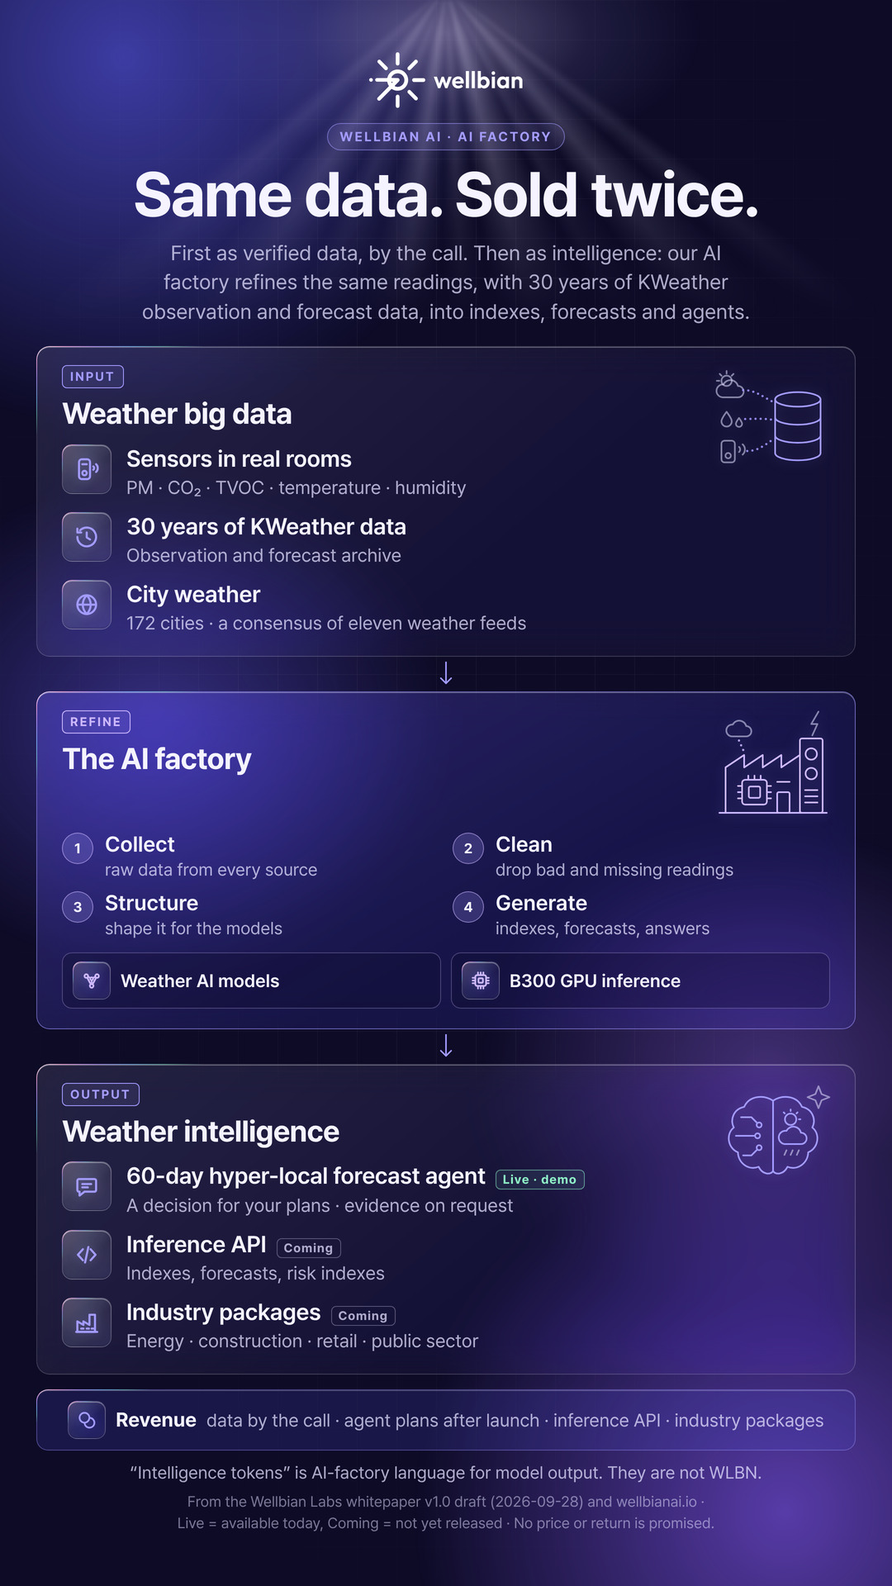
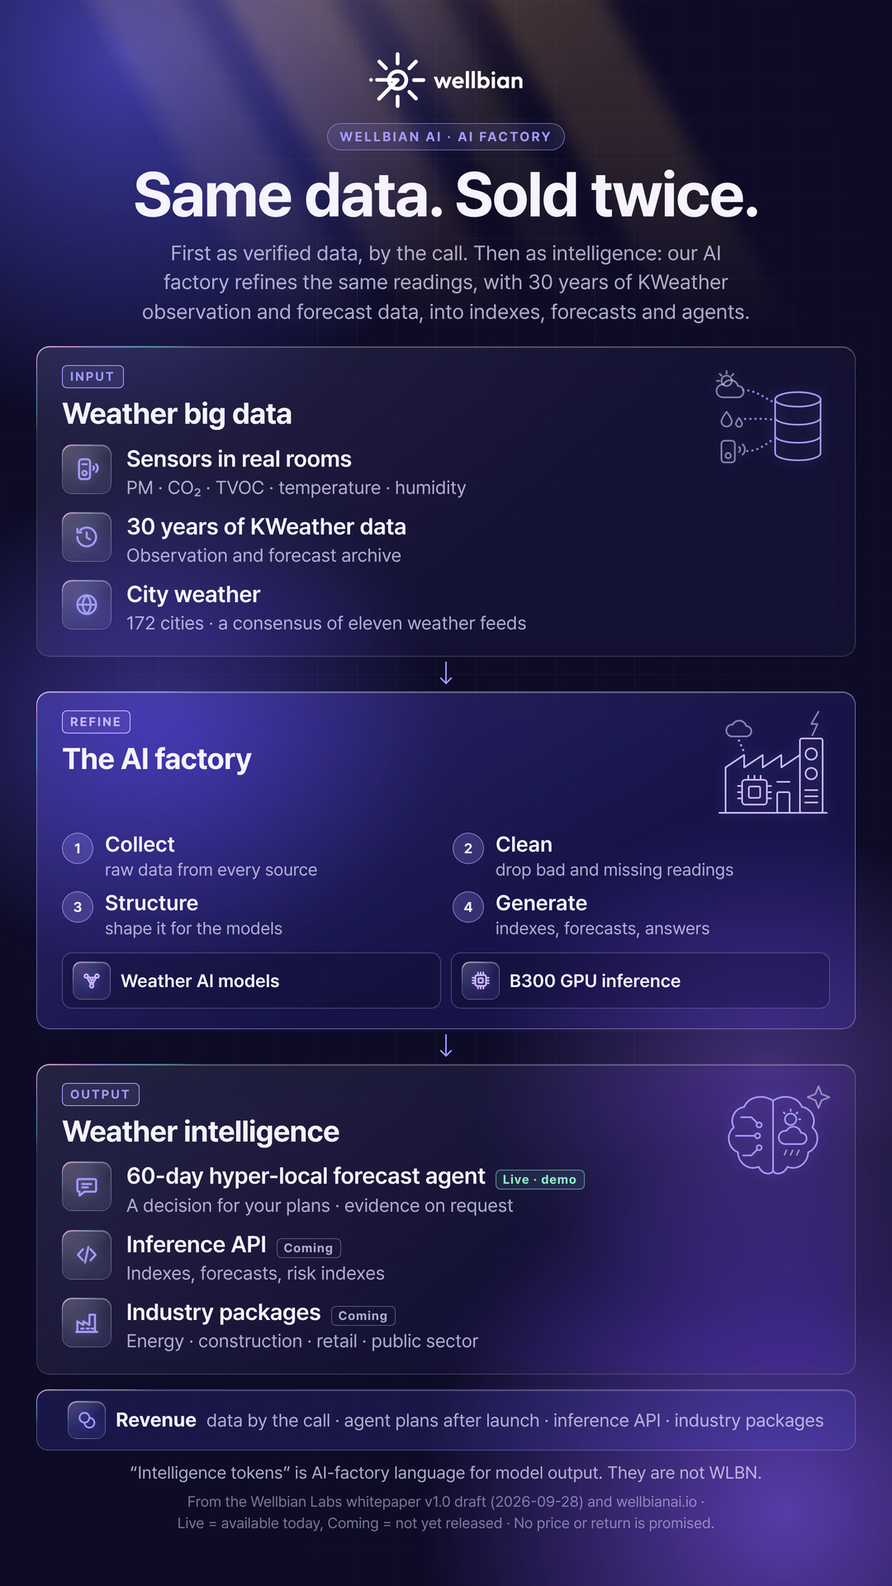
depin: swap part 3 radial rays for golden window light shafts
Claude-Session: https://claude.ai/code/session_014drgzQYBXTLjd1zzmsjRaS

Changed region(s): [[0.1222, 0.0, 0.7639, 0.125]]

diff --git a/depin/content/ai-factory-1021/ai-factory-en-9x16.html b/depin/content/ai-factory-1021/ai-factory-en-9x16.html
@@ -98,11 +98,12 @@ h1{margin-top:18px;font-size:70px;font-weight:700;letter-spacing:-.025em;line-he
 .ill svg{width:100%;height:100%;fill:none;stroke:currentColor;stroke-width:1.6;stroke-linecap:round;stroke-linejoin:round;filter:drop-shadow(0 0 8px rgba(163,155,255,.35))}
 .ill .l2{stroke:rgba(226,224,255,.55)}
 .ill .dot{stroke:currentColor;stroke-width:2.2;stroke-dasharray:0 5;opacity:.85}
-/* 햇살 — 최상단 가운데에서 메인 카피까지 내려오는 빛줄기(10/21 서우). 배경층(.bgfx) 안이라 글자 위로 올라오지 않는다. */
-.rays{position:absolute;left:50%;top:0;width:1700px;height:410px;transform:translateX(-50%);pointer-events:none;mix-blend-mode:screen;filter:blur(2.5px);
- background:conic-gradient(from 90deg at 50% -4%,transparent 0deg 36deg,rgba(232,224,255,.12) 39deg,transparent 43deg,rgba(232,224,255,.21) 50deg,transparent 56deg,rgba(232,224,255,.10) 62deg,transparent 65deg,rgba(232,224,255,.28) 75deg,transparent 82deg,rgba(232,224,255,.15) 87deg,transparent 91deg,rgba(232,224,255,.25) 98deg,transparent 105deg,rgba(232,224,255,.11) 112deg,transparent 116deg,rgba(232,224,255,.20) 124deg,transparent 131deg,rgba(232,224,255,.10) 138deg,transparent 142deg 360deg);
- -webkit-mask-image:linear-gradient(180deg,#000 0%,rgba(0,0,0,.78) 50%,rgba(0,0,0,.42) 72%,transparent 100%);mask-image:linear-gradient(180deg,#000 0%,rgba(0,0,0,.78) 50%,rgba(0,0,0,.42) 72%,transparent 100%)}
-.sunglow{position:absolute;left:50%;top:-120px;width:760px;height:340px;transform:translateX(-50%);border-radius:50%;pointer-events:none;background:radial-gradient(closest-side,rgba(214,200,255,.38),rgba(163,155,255,.12) 55%,rgba(163,155,255,0))}
+/* 햇살 — 창문으로 들어오는 금빛 빛줄기(10/22 서우 「방사형 말고 창문 햇살처럼 · 황금빛」). 위 왼쪽에서 비스듬히 내려와 메인 카피에 닿는
+   평행한 띠 넷(창살 사이 간격) · 많이 흐리게 · 아래로 갈수록 옅게. 배경층(.bgfx) 안이라 글자 위로 올라오지 않는다. */
+.shafts{position:absolute;top:-70px;left:50%;width:1150px;height:500px;transform:translateX(-66%) skewX(34deg);transform-origin:top center;pointer-events:none;mix-blend-mode:screen;filter:blur(10px);
+ background:linear-gradient(90deg,transparent 0%,rgba(255,200,112,.15) 4%,rgba(255,200,112,.15) 15%,transparent 19%,transparent 22%,rgba(255,190,96,.22) 25%,rgba(255,190,96,.22) 39%,transparent 43%,transparent 47%,rgba(255,206,124,.12) 50%,rgba(255,206,124,.12) 57%,transparent 60%,transparent 64%,rgba(255,194,104,.19) 67%,rgba(255,194,104,.19) 82%,transparent 86%,transparent 100%);
+ -webkit-mask-image:linear-gradient(180deg,rgba(0,0,0,.95) 0%,rgba(0,0,0,.75) 45%,rgba(0,0,0,.35) 72%,transparent 96%);mask-image:linear-gradient(180deg,rgba(0,0,0,.95) 0%,rgba(0,0,0,.75) 45%,rgba(0,0,0,.35) 72%,transparent 96%)}
+.sunglow{position:absolute;left:18%;top:-220px;width:1000px;height:440px;border-radius:50%;pointer-events:none;background:radial-gradient(closest-side,rgba(255,206,140,.16),rgba(255,190,120,.05) 60%,rgba(255,190,120,0))}
 .note{margin-top:16px;font-size:16px;color:var(--t2)}
 .note b{color:var(--t1);font-weight:600}
 .foot{margin-top:10px}
@@ -146,15 +147,15 @@ h1{margin-top:14px;font-size:76px;line-height:1.04;text-align:center;letter-spac
 .band b{font-size:24px}
 .band .ico-s{width:46px;height:46px;border-radius:11px}
 .band .ico-s svg{width:26px;height:26px}
-.rays{width:1150px;height:390px}
-.sunglow{width:620px;height:320px}
+.shafts{width:760px;height:500px;transform:translateX(-64%) skewX(30deg)}
+.sunglow{left:4%;width:760px;height:400px}
 .ill{top:16px;right:24px;width:150px;height:150px}
 .ft .hd{min-height:0;padding-right:170px}
 .ft.hub .hd{min-height:130px}
 .note{margin-top:14px;font-size:21px;text-align:center;max-width:960px;text-wrap:balance}
 .foot{margin-top:10px;max-width:960px;text-align:center;font-size:18px;line-height:1.45;text-wrap:balance}
 </style></head><body>
-<div class="bgfx"><div class="g1"></div><div class="g2"></div><div class="g3"></div><div class="g4"></div><div class="grid"></div><div class="sunglow"></div><div class="rays"></div></div>
+<div class="bgfx"><div class="g1"></div><div class="g2"></div><div class="g3"></div><div class="g4"></div><div class="grid"></div><div class="sunglow"></div><div class="shafts"></div></div>
 <div class="wrap">
 <div class="logo"><svg width="165" height="60" xmlns="http://www.w3.org/2000/svg" viewBox="0 0 416 151" fill="none" aria-label="wellbian"><g clip-path="url(#wellbian-logo-clip)"><path fill-rule="evenodd" clip-rule="evenodd" fill="#ffffff" d="M323.43 91.39C318.81 98.61 309.1 100.27 302.55 94.93L302.35 97.34L293.95 97.31V50.89L302.39 50.86L302.43 68.68C309.49 63.1 319.73 65.28 324.02 73.24C327.04 78.84 326.98 85.82 323.42 91.39H323.43ZM317.49 81.66C317.45 76.62 313.86 73.3 309.3 73.49C304.89 73.67 301.86 77.27 301.89 81.88C301.92 86.61 305.16 90.16 309.72 90.18C314.2 90.19 317.53 86.63 317.49 81.67V81.66ZM214.88 66.22H223.48L211.97 97.26L205.76 97.36L199.16 79.47L192.59 97.33L186.44 97.26L174.87 66.23L183.45 66.2L189.73 84.68L196.12 66.22L202.22 66.17L208.66 84.67L214.88 66.23V66.22ZM378.53 97.31L370.12 97.33L369.96 94.74C366.45 97.85 362.06 98.74 357.28 97.51C348.11 95.16 344.12 84.22 347.5 75.2C350.07 68.34 356.83 64.51 363.99 65.84C366.33 66.28 368.25 67.38 370.01 68.9L370.1 66.19H378.53V97.3V97.31ZM370.58 81.66C370.51 76.61 366.94 73.29 362.35 73.49C357.76 73.69 354.94 77.25 354.98 81.87C355.02 86.58 358.24 90.19 362.76 90.17C367.28 90.15 370.65 86.65 370.58 81.66ZM240.35 90.79C243.85 91.12 246.74 90.03 249.11 87.65L254.11 92.67C250.44 96.88 245.21 98.34 239.87 97.97C231.83 97.42 225.52 91.57 224.71 83.58C223.68 73.5 231.35 65.21 241.45 65.53C245.96 65.67 249.95 67.39 252.81 70.93C255.93 74.79 256.93 79.96 255.75 84.77H233.22C234.02 87.97 236.61 90.41 240.35 90.77V90.79ZM247.97 78.41C247.21 74.48 244.42 72.61 241 72.68C237.3 72.6 234.04 74.85 233.34 78.44L247.96 78.41H247.97ZM394.4 78.79L394.29 97.32H385.85V66.21L394.27 66.19L394.39 68.92C397.95 65.85 402.64 64.61 407.39 66.37C411.09 67.74 415.04 71.77 415.06 76.51L415.14 97.32H406.62L406.5 78.54C406.48 75.2 403.19 73.33 400.37 73.36C397.55 73.39 394.41 75.28 394.39 78.79H394.4ZM270.25 97.27L261.8 97.32V50.88L270.25 50.87V97.27ZM286.12 97.27L277.67 97.32V50.88L286.12 50.87V97.27ZM340.52 97.31H331.97V66.21L340.52 66.18V97.31ZM335.77 51.61C338.77 51.33 340.79 53.44 341.02 55.95C341.27 58.75 339.43 61.1 336.79 61.33C334.15 61.56 331.85 59.89 331.47 57.22C331.09 54.59 332.72 51.89 335.77 51.61ZM151.91 75.05C152.05 77.51 150.18 80.42 147.12 80.42H121.23C118.37 80.43 116.35 77.81 116.35 75.4C116.35 72.52 118.49 70.19 121.55 70.19L147.02 70.21C149.83 70.21 151.77 72.57 151.91 75.04M78.11 150.79H75.98C75.74 150.79 75.49 150.74 75.27 150.63C73.01 149.53 71.94 147.62 71.95 144.93L71.99 119.92C71.99 116.96 74.43 114.93 77.08 114.94C79.73 114.95 82.11 117.04 82.12 119.98L82.16 144.92C82.16 147.6 81.13 149.52 78.84 150.63C78.62 150.74 78.37 150.79 78.13 150.79H78.11ZM130.2 121.65C132.32 123.79 132.2 127.11 130.14 129.06C128.03 131.06 124.91 130.82 122.76 128.65L105.14 110.83C103.09 108.76 103.12 105.66 105.05 103.63C106.98 101.6 110.19 101.52 112.31 103.65L130.2 121.64V121.65ZM-9.76585e-06 75.58V73.86C-9.76585e-06 73.63 0.0399902 73.4 0.12999 73.19C1.12999 70.97 3.18999 69.5 5.60999 69.83C8.02999 70.16 10.03 72.42 9.91999 74.95C9.80999 77.48 7.83999 79.61 5.23999 79.76C2.94999 79.89 1.06999 78.44 0.11999 76.22C0.0299902 76.02 -0.0100098 75.79 -0.0100098 75.58H-9.76585e-06ZM52.97 90.7C51.07 87.56 49.87 84.48 49.15 81.06C48.99 80.31 48.35 79.76 47.58 79.76H21.31C18.42 79.76 16.29 77.56 16.19 74.97C16.08 72.18 18.28 69.8 21.31 69.8H47.88C48.62 69.79 49.25 69.27 49.43 68.55C53.4 52.66 69.57 43.24 85.29 47.94C94.48 50.69 101.45 58.07 104.12 66.39C107.39 76.58 105.06 86.87 98.34 94.5C89.03 105.08 73.73 107.18 61.91 99.72C61.27 99.31 60.43 99.39 59.9 99.93L30.57 129.52C28.52 131.59 25.62 131.7 23.52 129.94C21.62 128.35 20.8 124.85 22.93 122.7L52.74 92.68C53.26 92.15 53.34 91.34 52.96 90.71L52.97 90.7ZM80.79 78.93L69.87 89.9C69.07 90.71 69.33 92.1 70.39 92.52C76.53 94.96 83.35 93.88 88.39 89.84C94.03 85.32 96.63 77.87 94.7 70.68C92.54 62.67 85.48 57.21 77.46 57.05C70.29 56.91 63.71 61.01 60.61 67.52C60.12 68.56 60.92 69.76 62.07 69.76L77.66 69.82C79.76 69.82 81.46 71.82 81.95 73.25C82.63 75.22 82.33 77.36 80.78 78.93H80.79ZM61.66 79.79C60.53 79.77 59.73 80.9 60.14 81.96C60.56 83.04 61.96 83.33 62.77 82.51C63.75 81.51 63.06 79.82 61.66 79.79ZM78.15 0C78.4 0 78.65 0.05 78.87 0.16C81.11 1.27 82.14 3.2 82.14 5.87L82.1 30.81C82.1 33.75 79.72 35.84 77.06 35.85C74.4 35.86 71.98 33.83 71.97 30.87L71.93 5.86C71.93 3.16 73 1.25 75.37 0.15C75.58 0.05 75.83 0 76.06 0H78.14L78.15 0ZM112.39 46.97C110.21 49.17 107.12 49.03 105.11 47.13C103.36 45.48 102.84 42.1 104.86 40.07L122.89 21.84C124.89 19.82 127.79 19.77 129.78 21.35C131.84 22.97 132.6 26.53 130.51 28.64L112.38 46.97H112.39ZM49.43 40.36C51.26 42.21 50.67 45.34 49.2 46.95C47.55 48.76 44.23 49.43 42.3 47.5L23.59 28.67C21.68 26.75 22.19 23.58 23.76 21.9C25.45 20.09 28.75 19.48 30.74 21.5L49.42 40.37L49.43 40.36Z"></path></g><defs><clipPath id="wellbian-logo-clip"><rect width="415.14" height="150.79" fill="white"></rect></clipPath></defs></svg></div>
 <div class="kicker">Wellbian AI · AI factory</div>

diff --git a/depin/content/ai-factory-1021/ai-factory-en.html b/depin/content/ai-factory-1021/ai-factory-en.html
@@ -98,16 +98,17 @@ h1{margin-top:18px;font-size:70px;font-weight:700;letter-spacing:-.025em;line-he
 .ill svg{width:100%;height:100%;fill:none;stroke:currentColor;stroke-width:1.6;stroke-linecap:round;stroke-linejoin:round;filter:drop-shadow(0 0 8px rgba(163,155,255,.35))}
 .ill .l2{stroke:rgba(226,224,255,.55)}
 .ill .dot{stroke:currentColor;stroke-width:2.2;stroke-dasharray:0 5;opacity:.85}
-/* 햇살 — 최상단 가운데에서 메인 카피까지 내려오는 빛줄기(10/21 서우). 배경층(.bgfx) 안이라 글자 위로 올라오지 않는다. */
-.rays{position:absolute;left:50%;top:0;width:1700px;height:410px;transform:translateX(-50%);pointer-events:none;mix-blend-mode:screen;filter:blur(2.5px);
- background:conic-gradient(from 90deg at 50% -4%,transparent 0deg 36deg,rgba(232,224,255,.12) 39deg,transparent 43deg,rgba(232,224,255,.21) 50deg,transparent 56deg,rgba(232,224,255,.10) 62deg,transparent 65deg,rgba(232,224,255,.28) 75deg,transparent 82deg,rgba(232,224,255,.15) 87deg,transparent 91deg,rgba(232,224,255,.25) 98deg,transparent 105deg,rgba(232,224,255,.11) 112deg,transparent 116deg,rgba(232,224,255,.20) 124deg,transparent 131deg,rgba(232,224,255,.10) 138deg,transparent 142deg 360deg);
- -webkit-mask-image:linear-gradient(180deg,#000 0%,rgba(0,0,0,.78) 50%,rgba(0,0,0,.42) 72%,transparent 100%);mask-image:linear-gradient(180deg,#000 0%,rgba(0,0,0,.78) 50%,rgba(0,0,0,.42) 72%,transparent 100%)}
-.sunglow{position:absolute;left:50%;top:-120px;width:760px;height:340px;transform:translateX(-50%);border-radius:50%;pointer-events:none;background:radial-gradient(closest-side,rgba(214,200,255,.38),rgba(163,155,255,.12) 55%,rgba(163,155,255,0))}
+/* 햇살 — 창문으로 들어오는 금빛 빛줄기(10/22 서우 「방사형 말고 창문 햇살처럼 · 황금빛」). 위 왼쪽에서 비스듬히 내려와 메인 카피에 닿는
+   평행한 띠 넷(창살 사이 간격) · 많이 흐리게 · 아래로 갈수록 옅게. 배경층(.bgfx) 안이라 글자 위로 올라오지 않는다. */
+.shafts{position:absolute;top:-70px;left:50%;width:1150px;height:500px;transform:translateX(-66%) skewX(34deg);transform-origin:top center;pointer-events:none;mix-blend-mode:screen;filter:blur(10px);
+ background:linear-gradient(90deg,transparent 0%,rgba(255,200,112,.15) 4%,rgba(255,200,112,.15) 15%,transparent 19%,transparent 22%,rgba(255,190,96,.22) 25%,rgba(255,190,96,.22) 39%,transparent 43%,transparent 47%,rgba(255,206,124,.12) 50%,rgba(255,206,124,.12) 57%,transparent 60%,transparent 64%,rgba(255,194,104,.19) 67%,rgba(255,194,104,.19) 82%,transparent 86%,transparent 100%);
+ -webkit-mask-image:linear-gradient(180deg,rgba(0,0,0,.95) 0%,rgba(0,0,0,.75) 45%,rgba(0,0,0,.35) 72%,transparent 96%);mask-image:linear-gradient(180deg,rgba(0,0,0,.95) 0%,rgba(0,0,0,.75) 45%,rgba(0,0,0,.35) 72%,transparent 96%)}
+.sunglow{position:absolute;left:18%;top:-220px;width:1000px;height:440px;border-radius:50%;pointer-events:none;background:radial-gradient(closest-side,rgba(255,206,140,.16),rgba(255,190,120,.05) 60%,rgba(255,190,120,0))}
 .note{margin-top:16px;font-size:16px;color:var(--t2)}
 .note b{color:var(--t1);font-weight:600}
 .foot{margin-top:10px}
 </style></head><body>
-<div class="bgfx"><div class="g1"></div><div class="g2"></div><div class="g3"></div><div class="g4"></div><div class="grid"></div><div class="sunglow"></div><div class="rays"></div></div>
+<div class="bgfx"><div class="g1"></div><div class="g2"></div><div class="g3"></div><div class="g4"></div><div class="grid"></div><div class="sunglow"></div><div class="shafts"></div></div>
 <div class="wrap">
 <div class="logo"><svg width="165" height="60" xmlns="http://www.w3.org/2000/svg" viewBox="0 0 416 151" fill="none" aria-label="wellbian"><g clip-path="url(#wellbian-logo-clip)"><path fill-rule="evenodd" clip-rule="evenodd" fill="#ffffff" d="M323.43 91.39C318.81 98.61 309.1 100.27 302.55 94.93L302.35 97.34L293.95 97.31V50.89L302.39 50.86L302.43 68.68C309.49 63.1 319.73 65.28 324.02 73.24C327.04 78.84 326.98 85.82 323.42 91.39H323.43ZM317.49 81.66C317.45 76.62 313.86 73.3 309.3 73.49C304.89 73.67 301.86 77.27 301.89 81.88C301.92 86.61 305.16 90.16 309.72 90.18C314.2 90.19 317.53 86.63 317.49 81.67V81.66ZM214.88 66.22H223.48L211.97 97.26L205.76 97.36L199.16 79.47L192.59 97.33L186.44 97.26L174.87 66.23L183.45 66.2L189.73 84.68L196.12 66.22L202.22 66.17L208.66 84.67L214.88 66.23V66.22ZM378.53 97.31L370.12 97.33L369.96 94.74C366.45 97.85 362.06 98.74 357.28 97.51C348.11 95.16 344.12 84.22 347.5 75.2C350.07 68.34 356.83 64.51 363.99 65.84C366.33 66.28 368.25 67.38 370.01 68.9L370.1 66.19H378.53V97.3V97.31ZM370.58 81.66C370.51 76.61 366.94 73.29 362.35 73.49C357.76 73.69 354.94 77.25 354.98 81.87C355.02 86.58 358.24 90.19 362.76 90.17C367.28 90.15 370.65 86.65 370.58 81.66ZM240.35 90.79C243.85 91.12 246.74 90.03 249.11 87.65L254.11 92.67C250.44 96.88 245.21 98.34 239.87 97.97C231.83 97.42 225.52 91.57 224.71 83.58C223.68 73.5 231.35 65.21 241.45 65.53C245.96 65.67 249.95 67.39 252.81 70.93C255.93 74.79 256.93 79.96 255.75 84.77H233.22C234.02 87.97 236.61 90.41 240.35 90.77V90.79ZM247.97 78.41C247.21 74.48 244.42 72.61 241 72.68C237.3 72.6 234.04 74.85 233.34 78.44L247.96 78.41H247.97ZM394.4 78.79L394.29 97.32H385.85V66.21L394.27 66.19L394.39 68.92C397.95 65.85 402.64 64.61 407.39 66.37C411.09 67.74 415.04 71.77 415.06 76.51L415.14 97.32H406.62L406.5 78.54C406.48 75.2 403.19 73.33 400.37 73.36C397.55 73.39 394.41 75.28 394.39 78.79H394.4ZM270.25 97.27L261.8 97.32V50.88L270.25 50.87V97.27ZM286.12 97.27L277.67 97.32V50.88L286.12 50.87V97.27ZM340.52 97.31H331.97V66.21L340.52 66.18V97.31ZM335.77 51.61C338.77 51.33 340.79 53.44 341.02 55.95C341.27 58.75 339.43 61.1 336.79 61.33C334.15 61.56 331.85 59.89 331.47 57.22C331.09 54.59 332.72 51.89 335.77 51.61ZM151.91 75.05C152.05 77.51 150.18 80.42 147.12 80.42H121.23C118.37 80.43 116.35 77.81 116.35 75.4C116.35 72.52 118.49 70.19 121.55 70.19L147.02 70.21C149.83 70.21 151.77 72.57 151.91 75.04M78.11 150.79H75.98C75.74 150.79 75.49 150.74 75.27 150.63C73.01 149.53 71.94 147.62 71.95 144.93L71.99 119.92C71.99 116.96 74.43 114.93 77.08 114.94C79.73 114.95 82.11 117.04 82.12 119.98L82.16 144.92C82.16 147.6 81.13 149.52 78.84 150.63C78.62 150.74 78.37 150.79 78.13 150.79H78.11ZM130.2 121.65C132.32 123.79 132.2 127.11 130.14 129.06C128.03 131.06 124.91 130.82 122.76 128.65L105.14 110.83C103.09 108.76 103.12 105.66 105.05 103.63C106.98 101.6 110.19 101.52 112.31 103.65L130.2 121.64V121.65ZM-9.76585e-06 75.58V73.86C-9.76585e-06 73.63 0.0399902 73.4 0.12999 73.19C1.12999 70.97 3.18999 69.5 5.60999 69.83C8.02999 70.16 10.03 72.42 9.91999 74.95C9.80999 77.48 7.83999 79.61 5.23999 79.76C2.94999 79.89 1.06999 78.44 0.11999 76.22C0.0299902 76.02 -0.0100098 75.79 -0.0100098 75.58H-9.76585e-06ZM52.97 90.7C51.07 87.56 49.87 84.48 49.15 81.06C48.99 80.31 48.35 79.76 47.58 79.76H21.31C18.42 79.76 16.29 77.56 16.19 74.97C16.08 72.18 18.28 69.8 21.31 69.8H47.88C48.62 69.79 49.25 69.27 49.43 68.55C53.4 52.66 69.57 43.24 85.29 47.94C94.48 50.69 101.45 58.07 104.12 66.39C107.39 76.58 105.06 86.87 98.34 94.5C89.03 105.08 73.73 107.18 61.91 99.72C61.27 99.31 60.43 99.39 59.9 99.93L30.57 129.52C28.52 131.59 25.62 131.7 23.52 129.94C21.62 128.35 20.8 124.85 22.93 122.7L52.74 92.68C53.26 92.15 53.34 91.34 52.96 90.71L52.97 90.7ZM80.79 78.93L69.87 89.9C69.07 90.71 69.33 92.1 70.39 92.52C76.53 94.96 83.35 93.88 88.39 89.84C94.03 85.32 96.63 77.87 94.7 70.68C92.54 62.67 85.48 57.21 77.46 57.05C70.29 56.91 63.71 61.01 60.61 67.52C60.12 68.56 60.92 69.76 62.07 69.76L77.66 69.82C79.76 69.82 81.46 71.82 81.95 73.25C82.63 75.22 82.33 77.36 80.78 78.93H80.79ZM61.66 79.79C60.53 79.77 59.73 80.9 60.14 81.96C60.56 83.04 61.96 83.33 62.77 82.51C63.75 81.51 63.06 79.82 61.66 79.79ZM78.15 0C78.4 0 78.65 0.05 78.87 0.16C81.11 1.27 82.14 3.2 82.14 5.87L82.1 30.81C82.1 33.75 79.72 35.84 77.06 35.85C74.4 35.86 71.98 33.83 71.97 30.87L71.93 5.86C71.93 3.16 73 1.25 75.37 0.15C75.58 0.05 75.83 0 76.06 0H78.14L78.15 0ZM112.39 46.97C110.21 49.17 107.12 49.03 105.11 47.13C103.36 45.48 102.84 42.1 104.86 40.07L122.89 21.84C124.89 19.82 127.79 19.77 129.78 21.35C131.84 22.97 132.6 26.53 130.51 28.64L112.38 46.97H112.39ZM49.43 40.36C51.26 42.21 50.67 45.34 49.2 46.95C47.55 48.76 44.23 49.43 42.3 47.5L23.59 28.67C21.68 26.75 22.19 23.58 23.76 21.9C25.45 20.09 28.75 19.48 30.74 21.5L49.42 40.37L49.43 40.36Z"></path></g><defs><clipPath id="wellbian-logo-clip"><rect width="415.14" height="150.79" fill="white"></rect></clipPath></defs></svg></div>
 <div class="kicker">Wellbian AI · AI factory</div>

diff --git a/depin/content/ai-factory-1021/build.py b/depin/content/ai-factory-1021/build.py
@@ -82,11 +82,12 @@ XCSS = """
 .ill svg{width:100%;height:100%;fill:none;stroke:currentColor;stroke-width:1.6;stroke-linecap:round;stroke-linejoin:round;filter:drop-shadow(0 0 8px rgba(163,155,255,.35))}
 .ill .l2{stroke:rgba(226,224,255,.55)}
 .ill .dot{stroke:currentColor;stroke-width:2.2;stroke-dasharray:0 5;opacity:.85}
-/* 햇살 — 최상단 가운데에서 메인 카피까지 내려오는 빛줄기(10/21 서우). 배경층(.bgfx) 안이라 글자 위로 올라오지 않는다. */
-.rays{position:absolute;left:50%;top:0;width:1700px;height:410px;transform:translateX(-50%);pointer-events:none;mix-blend-mode:screen;filter:blur(2.5px);
- background:conic-gradient(from 90deg at 50% -4%,transparent 0deg 36deg,rgba(232,224,255,.12) 39deg,transparent 43deg,rgba(232,224,255,.21) 50deg,transparent 56deg,rgba(232,224,255,.10) 62deg,transparent 65deg,rgba(232,224,255,.28) 75deg,transparent 82deg,rgba(232,224,255,.15) 87deg,transparent 91deg,rgba(232,224,255,.25) 98deg,transparent 105deg,rgba(232,224,255,.11) 112deg,transparent 116deg,rgba(232,224,255,.20) 124deg,transparent 131deg,rgba(232,224,255,.10) 138deg,transparent 142deg 360deg);
- -webkit-mask-image:linear-gradient(180deg,#000 0%,rgba(0,0,0,.78) 50%,rgba(0,0,0,.42) 72%,transparent 100%);mask-image:linear-gradient(180deg,#000 0%,rgba(0,0,0,.78) 50%,rgba(0,0,0,.42) 72%,transparent 100%)}
-.sunglow{position:absolute;left:50%;top:-120px;width:760px;height:340px;transform:translateX(-50%);border-radius:50%;pointer-events:none;background:radial-gradient(closest-side,rgba(214,200,255,.38),rgba(163,155,255,.12) 55%,rgba(163,155,255,0))}
+/* 햇살 — 창문으로 들어오는 금빛 빛줄기(10/22 서우 「방사형 말고 창문 햇살처럼 · 황금빛」). 위 왼쪽에서 비스듬히 내려와 메인 카피에 닿는
+   평행한 띠 넷(창살 사이 간격) · 많이 흐리게 · 아래로 갈수록 옅게. 배경층(.bgfx) 안이라 글자 위로 올라오지 않는다. */
+.shafts{position:absolute;top:-70px;left:50%;width:1150px;height:500px;transform:translateX(-66%) skewX(34deg);transform-origin:top center;pointer-events:none;mix-blend-mode:screen;filter:blur(10px);
+ background:linear-gradient(90deg,transparent 0%,rgba(255,200,112,.15) 4%,rgba(255,200,112,.15) 15%,transparent 19%,transparent 22%,rgba(255,190,96,.22) 25%,rgba(255,190,96,.22) 39%,transparent 43%,transparent 47%,rgba(255,206,124,.12) 50%,rgba(255,206,124,.12) 57%,transparent 60%,transparent 64%,rgba(255,194,104,.19) 67%,rgba(255,194,104,.19) 82%,transparent 86%,transparent 100%);
+ -webkit-mask-image:linear-gradient(180deg,rgba(0,0,0,.95) 0%,rgba(0,0,0,.75) 45%,rgba(0,0,0,.35) 72%,transparent 96%);mask-image:linear-gradient(180deg,rgba(0,0,0,.95) 0%,rgba(0,0,0,.75) 45%,rgba(0,0,0,.35) 72%,transparent 96%)}
+.sunglow{position:absolute;left:18%;top:-220px;width:1000px;height:440px;border-radius:50%;pointer-events:none;background:radial-gradient(closest-side,rgba(255,206,140,.16),rgba(255,190,120,.05) 60%,rgba(255,190,120,0))}
 .note{margin-top:16px;font-size:16px;color:var(--t2)}
 .note b{color:var(--t1);font-weight:600}
 .foot{margin-top:10px}
@@ -132,8 +133,8 @@ h1{margin-top:14px;font-size:76px;line-height:1.04;text-align:center;letter-spac
 .band b{font-size:24px}
 .band .ico-s{width:46px;height:46px;border-radius:11px}
 .band .ico-s svg{width:26px;height:26px}
-.rays{width:1150px;height:390px}
-.sunglow{width:620px;height:320px}
+.shafts{width:760px;height:500px;transform:translateX(-64%) skewX(30deg)}
+.sunglow{left:4%;width:760px;height:400px}
 .ill{top:16px;right:24px;width:150px;height:150px}
 .ft .hd{min-height:0;padding-right:170px}
 .ft.hub .hd{min-height:130px}
@@ -195,7 +196,7 @@ def page(lang, vertical=False):
     bn, bd = t["band"]
     css = A.CSS + XCSS + (VCSS if vertical else "")
     return f"""<!doctype html><html lang="{t['lang']}"><head><meta charset="utf-8"><title>wellbian — {t['h1']}</title><style>{css}</style></head><body>
-<div class="bgfx"><div class="g1"></div><div class="g2"></div><div class="g3"></div><div class="g4"></div><div class="grid"></div><div class="sunglow"></div><div class="rays"></div></div>
+<div class="bgfx"><div class="g1"></div><div class="g2"></div><div class="g3"></div><div class="g4"></div><div class="grid"></div><div class="sunglow"></div><div class="shafts"></div></div>
 <div class="wrap">
 <div class="logo">{A.LOGO}</div>
 <div class="kicker">{t['kicker']}</div>

diff --git a/depin/reports/work-log.md b/depin/reports/work-log.md
@@ -2519,3 +2519,4 @@ Thanks Odelia — writing to you at that address today. Mine is support@wellbian
 - **연재 Part 3 3차(10/21, 서우 「큰 테이블 우측 상단에 큰 svg 일러스트」)** — 세 타일 우상단 라인 일러스트(데이터 모임 → DB · 지구 네트워크 + 번개 → GPU · 해 구름 + 상승선) · 제목 칸 높이 확보로 겹침 0 · 큐브(토큰 연상) 0. `content/ai-factory-1021/`.
 - **연재 Part 3 4차(10/21, 서우 「AI factory 는 건물처럼 · intelligence 는 뇌 형태 · 날씨」)** — 정제 = 공장 건물(톱니 지붕 · 서버 동 · 정면 GPU 칩 · 구름 · 번개) · 출력 = 뇌(왼쪽 회로 · 오른쪽 해 · 구름 · 비). `content/ai-factory-1021/`.
 - **연재 Part 3 5차(10/21, 서우 「최상단에서 메인 카피까지 햇살」)** — 배경층 빛줄기 + 위 가운데 빛 번짐, 첫 판은 로고 근처에서 끊겨 길이 · 밝기를 늘려 제목 줄까지. `content/ai-factory-1021/`.
+- **연재 Part 3 6차(10/22, 서우 「인위적 조명 말고 황금빛 · 창문 햇살처럼」)** — 방사형 빛줄기 → 위 왼쪽에서 비스듬히 내려오는 평행 금빛 띠 넷(창살 간격) · 흐림 · 아래로 옅게. `content/ai-factory-1021/`.

diff --git a/depin/content/ai-factory-1021/README.md b/depin/content/ai-factory-1021/README.md
@@ -14,6 +14,8 @@
 
 - **10/21 5차(서우 「최상단에서 메인 카피까지 내려오는 햇살」)**: 배경층에 위 가운데에서 퍼지는 빛줄기(`.rays` — 불규칙한 원뿔 그라데이션 · 살짝 흐림 · 아래로 갈수록 옅게, 제목 줄에서 약 40% 남김) + 위 가운데 은은한 빛 번짐(`.sunglow`). 글자 위로는 올라오지 않는다.
 
+- **10/22 6차(서우 「너무 인위적인 조명 — 황금빛으로 · 방사형 말고 창문으로 들어오는 햇살처럼」)**: 5차 방사형 빛줄기(`.rays`)를 걷어내고, 위 왼쪽에서 비스듬히 내려와 메인 카피에 닿는 **평행한 금빛 띠 넷**(`.shafts` — 창살 사이 간격처럼 폭 · 밝기가 다름 · 크게 흐림 · 아래로 갈수록 옅게) + 위 왼쪽 금빛 번짐(`.sunglow`).
+
 ## 백서 대조 (Company whitepaper v1.0 초안 2026-09-28 · wellbianai.io, 10/21 열람)
 
 | 원글 · 그림 | 백서 · 사이트 | 3편에서 |
